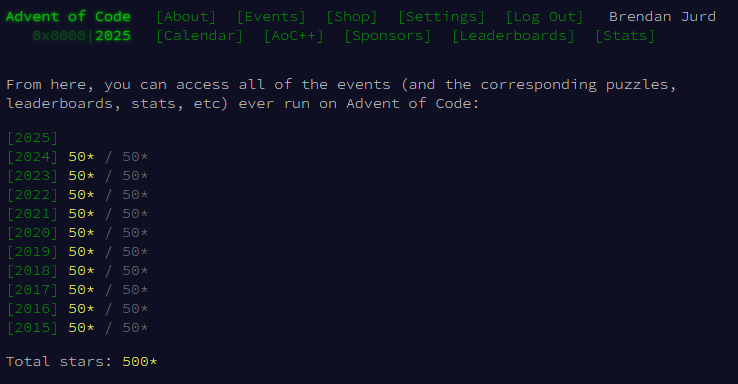
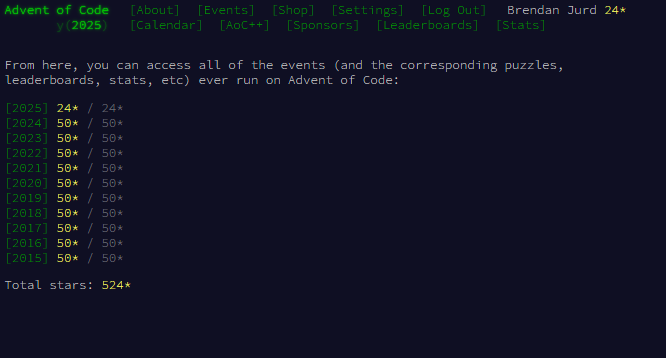
Another editing pass
Replace the default background with a masked screenshot, update the
personal stats screenshot, and update the text on a bunch of slides.

Changed region(s): [[0.0, 0.1536, 0.9309, 0.8911], [0.0, 0.0, 0.991, 0.1229], [0.0, 0.9218, 0.2102, 0.9525]]

diff --git a/slides.md b/slides.md
@@ -1,9 +1,7 @@
 ---
 # try also 'default' to start simple
 theme: seriph
-# random image from a curated Unsplash collection by Anthony
-# like them? see https://unsplash.com/collections/94734566/slidev
-background: https://cover.sli.dev
+background: advent-interactive-bg.png
 # some information about your slides (markdown enabled)
 title: "Advent of Code: an introduction and a Python toolkit"
 info: |
@@ -29,11 +27,19 @@ duration: 35min
 ## An introduction + a Python toolkit
 
 <!--
-The last comment block of each slide will be treated as slide notes. It will be visible and editable in Presenter Mode along with the slide. [Read more in the docs](https://sli.dev/guide/syntax.html#notes)
+Hi everyone, and welcome to my talk about Advent of Code.
+
+In this talk, I'm going to give an overview about what Advent of Code is, who
+it's for and hopefully give you a sense about whether it's your jam.
+
+Then, I'm going to give a quick tour through the Python toolkit that I've built
+up during my time with Advent of Code, which you are very welcome to use for
+your own solutions, or take as inspiration to construct your own toolkit.
 -->
 
 ---
 transition: fade-out
+layout: two-cols
 ---
 
 # What is Advent of Code?
@@ -41,12 +47,21 @@ transition: fade-out
 A series of programming puzzle challenges held every
 year in December
 
+<v-clicks>
+
 - 📅 Running every year since 2015
-- 🌟 500 puzzles released so far
+- 🌟 524 puzzles released so far
 - 🆓 Free (as in beer) to play
 - 🛠 Use whatever languages and tools you like
+- 👍 It's awesome
+
+</v-clicks>
 
 [https://adventofcode.com](https://adventofcode.com)
+
+::right::
+
+<img src="./aoc-2025.png" alt="AOC front page for 2025" />
 
 ---
 layout: two-cols
@@ -54,20 +69,24 @@ layout: two-cols
 
 # What is Brendan?
 
+<v-clicks>
+
 - A (vaguely) humaniform carbon-based life form who likes programming.
-- Solved all 500 AoC puzzles released to date
+- Solved all 524 AoC puzzles released to date
 - Even managed to rank in the top 1000 on the global leaderboard for a few of
-  the puzzles in 2014
+  the puzzles in 2024
+
+</v-clicks>
 
 ::right::
 
-<v-click>
+<v-click at="2">
     <div style="padding: 16px;">
-        <img src="./stars.png" alt="500 stars" />
+        <img src="./stars.png" alt="524 stars" />
     </div>
 </v-click>
 
-<v-click>
+<v-click at="3">
     <div style="padding: 16px;">
         <img src="./times-2014.png" alt="personal times for 2014" />
     </div>
@@ -76,6 +95,8 @@ layout: two-cols
 ---
 
 # How does it work?
+
+<v-clicks depth="2">
 
 - During the challenge, a new puzzle is released each day at midnight US EST (4
   pm in Canberra)
@@ -89,17 +110,23 @@ layout: two-cols
 - Part Two has some kind of twist that makes it a lot harder
 - Submit the correct answer for Part Two to get a second ⭐ 
 
+</v-clicks>
+
 ---
 layout: two-cols
 ---
 
 # Who is it for?
 
+<v-clicks depth="2">
+
 - People with some programming experience
 - Computer science background not required (but it does help)
 - High-spec hardware not required
   - All puzzles solvable in <15s on basic commodity hardware
   - (although I was occasionally too stupid to find a fast solution)
+
+</v-clicks>
 
 ::right::
 
@@ -108,10 +135,10 @@ layout: two-cols
 </div>
 
 ---
-layout: two-cols
----
 
 # What are the puzzles like?
+
+<v-clicks depth="2">
 
 - Christmas themed 🎄
 - Difficulty generally increasing each day
@@ -121,11 +148,16 @@ layout: two-cols
 - Beautiful ASCII art on the Advent Calendar page
 - Fun little hover titles hidden through the text
 
-::right::
+</v-clicks>
 
-<div style="margin-top: 3.5em;"></div>
+---
+
+# What are the puzzles like?
 
 Many different problem types, but some recurring features:
+
+<v-clicks depth="2">
+
 - Text parsing
 - Data structures
 - Grids and geometry
@@ -135,12 +167,17 @@ Many different problem types, but some recurring features:
 - Combinatorics
 - Recursion
 
+</v-clicks>
+
 ---
 
 # What language to use?
 
+<v-click>
+
 ## Python, obviously
 
+</v-click>
 <v-click>
     <p>
         Seriously though, Python is the most popular choice.
@@ -157,28 +194,56 @@ Many different problem types, but some recurring features:
 </v-click>
 
 ---
-layout: image-right
-image: ./third-place.jpg
+layout: two-cols
 ---
 
 # What changed in 2025?
 
-- Number of puzzles reduced from 25 to 12
+<v-clicks>
+
+- Number of puzzle days reduced from 25 to 12
 - Global leaderboard shut down
-  - Bad actors and AI abusers ruined it for everybody
   - Private leaderboards still allowed
 
+</v-clicks>
+
+<v-click>
+
+## How come?
+
+Bad actors and AI abusers ruined it for everybody
+
+</v-click>
+
+::right::
+
+<v-click>
+    <div style="padding: 16px;">
+        <img src="./third-place.jpg" alt="Third place" />
+    </div>
+</v-click>
 ---
 
 # Tips?
 
-- **Don't get discouraged**, some of these puzzles are genuinely *super* hard
-- **Explore the Standard Library**, loads of very helpful modules are already
-  built right into Python
-- **Check out the subreddit**, mostly a very positive community
-- **Have fun with it**, try out a new technique or a library or even a whole language, or make a
-  cool visualisation
-- **Don't stress about leaderboard timings**
+<h2>Don't get discouraged</h2>
+<p>Some of these puzzles are genuinely *super* hard</p>
+
+<v-click>
+  <h2>Explore the Standard Library</h2>
+  <p>Loads of very helpful modules are already built right into Python</p>
+</v-click>
+
+<v-click>
+  <h2>Check out the subreddit</h2>
+  <p>Mostly a very positive community of players</p>
+</v-click>
+
+<v-click>
+  <h2>Have fun with it</h2>
+  <p>Try out a new technique, or a library or even a whole language, or make a
+  cool visualisation</p>
+</v-click>
 
 ---
 layout: image-right
